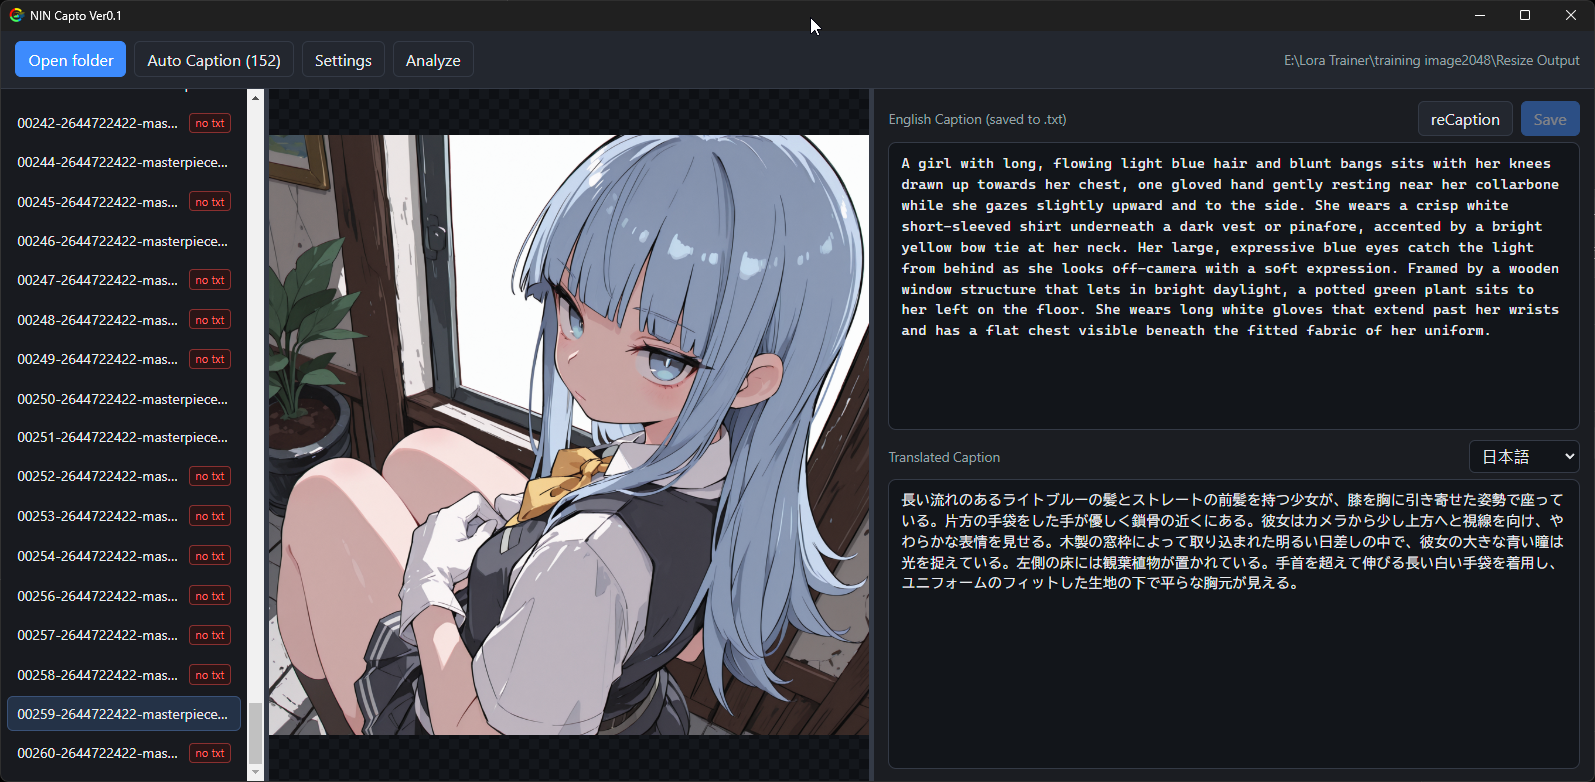
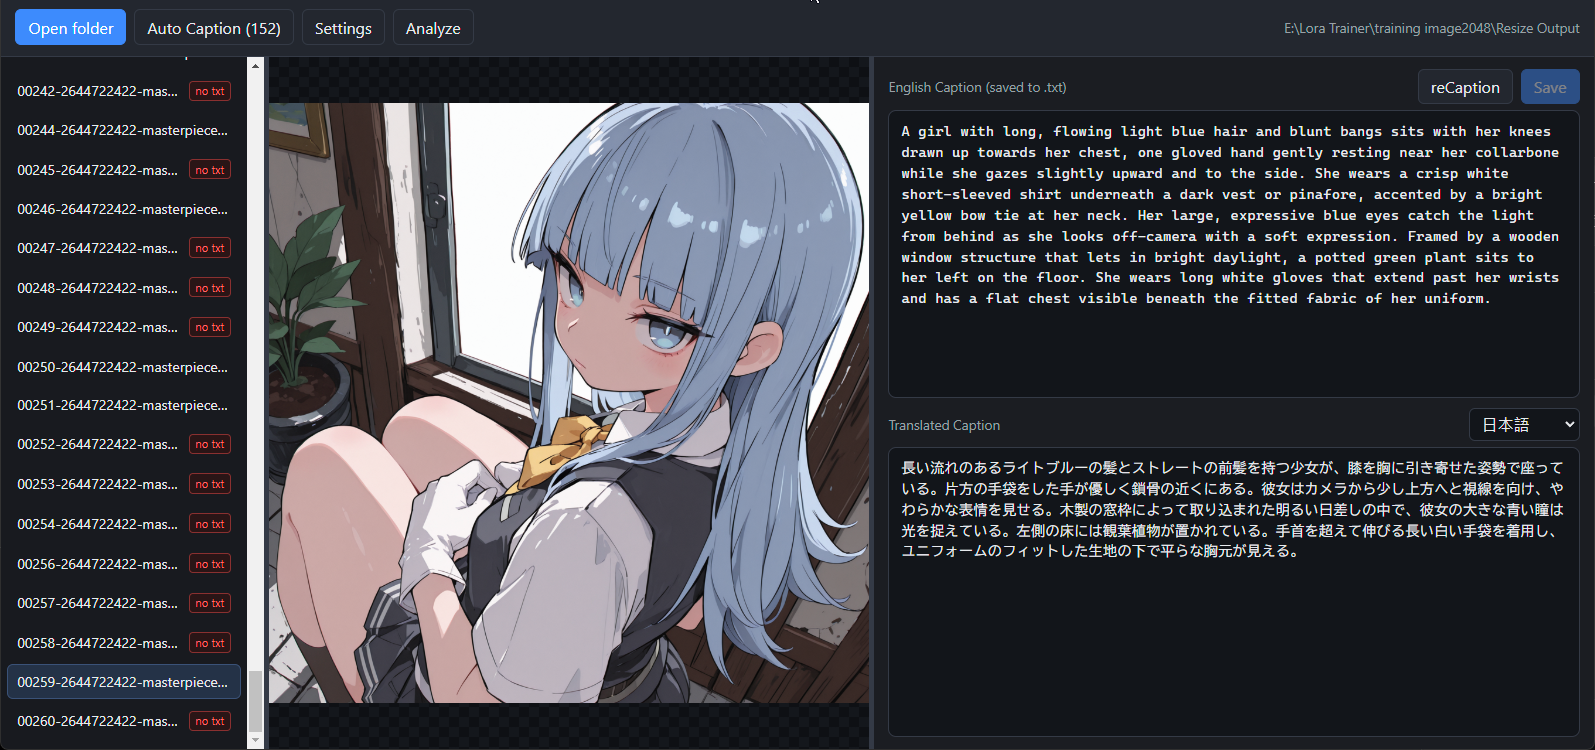
update readme and project name

Changed region(s): [[0.0, 0.0, 1.0, 0.9813], [0.3687, 0.736, 0.3994, 0.7667]]

diff --git a/out/renderer/assets/index-D_MhFrOL.js b/out/renderer/assets/index-D_MhFrOL.js
@@ -13765,44 +13765,10 @@ function ImageList({ images, selectedPath, dirtyPaths, onSelect }) {
   }) });
 }
 function ImagePreview({ imagePath, imageUrl }) {
-  const dbg = (message, data, hypothesisId) => {
-    fetch("http://127.0.0.1:7650/ingest/972901e0-30eb-4010-8d33-32496f961f4a", {
-      method: "POST",
-      headers: { "Content-Type": "application/json", "X-Debug-Session-Id": "6eddf5" },
-      body: JSON.stringify({
-        sessionId: "6eddf5",
-        runId: "post-fix-v2",
-        hypothesisId,
-        location: "ImagePreview.tsx",
-        message,
-        data,
-        timestamp: Date.now()
-      })
-    }).catch(() => {
-    });
-  };
-  dbg(
-    "preview-render",
-    {
-      hasPath: Boolean(imagePath),
-      hasUrl: Boolean(imageUrl),
-      imagePathTail: imagePath ? imagePath.slice(-80) : null,
-      imageUrl
-    },
-    "D"
-  );
   if (!imagePath || !imageUrl) {
     return /* @__PURE__ */ jsxRuntimeExports.jsx("div", { className: "image-preview empty", children: /* @__PURE__ */ jsxRuntimeExports.jsx("p", { children: "Select an image from the list to preview" }) });
   }
-  return /* @__PURE__ */ jsxRuntimeExports.jsx("div", { className: "image-preview", children: /* @__PURE__ */ jsxRuntimeExports.jsx(
-    "img",
-    {
-      src: imageUrl,
-      alt: "",
-      onLoad: () => dbg("img-load-ok", { imageUrl }, "C"),
-      onError: () => dbg("img-load-error", { imageUrl, imagePathTail: imagePath.slice(-80) }, "C")
-    }
-  ) });
+  return /* @__PURE__ */ jsxRuntimeExports.jsx("div", { className: "image-preview", children: /* @__PURE__ */ jsxRuntimeExports.jsx("img", { src: imageUrl, alt: "" }) });
 }
 const TRANSLATE_TIMEOUT_MS = 12e4;
 const CACHE_MAX = 80;
@@ -14918,7 +14884,6 @@ function App() {
       }
       if (isCaptionFocused()) return;
       if (e.ctrlKey || e.metaKey || e.altKey) return;
-      if (batchCaptioning || singleCaptioning) return;
       if (deleteOpen || unsavedOpen || settingsOpen) return;
       if (e.key === " " || e.key === "Spacebar" || e.key === "Enter") {
         e.preventDefault();
@@ -14951,8 +14916,6 @@ function App() {
     images,
     selectedPath,
     selectImage,
-    batchCaptioning,
-    singleCaptioning,
     deleteOpen,
     unsavedOpen,
     settingsOpen

diff --git a/out/renderer/index.html b/out/renderer/index.html
@@ -6,8 +6,8 @@
       http-equiv="Content-Security-Policy"
       content="default-src 'self'; script-src 'self'; style-src 'self' 'unsafe-inline'; img-src 'self' local-file: data: blob:; connect-src 'self' http://localhost:* http://127.0.0.1:*"
     />
-    <title>NIN Capto Ver0.1</title>
-    <script type="module" crossorigin src="./assets/index-DMQ2MMzc.js"></script>
+    <title>Captioer Ver0.1</title>
+    <script type="module" crossorigin src="./assets/index-D_MhFrOL.js"></script>
     <link rel="stylesheet" crossorigin href="./assets/index-DLVhqK-0.css">
   </head>
   <body>

diff --git a/src/renderer/index.html b/src/renderer/index.html
@@ -6,7 +6,7 @@
       http-equiv="Content-Security-Policy"
       content="default-src 'self'; script-src 'self'; style-src 'self' 'unsafe-inline'; img-src 'self' local-file: data: blob:; connect-src 'self' http://localhost:* http://127.0.0.1:*"
     />
-    <title>NIN Capto Ver0.1</title>
+    <title>Captioer Ver0.1</title>
   </head>
   <body>
     <div id="root"></div>

diff --git a/src/main/index.ts b/src/main/index.ts
@@ -238,7 +238,7 @@ async function createWindow(): Promise<void> {
     height: Math.max(600, saved.height),
     minWidth: 900,
     minHeight: 600,
-    title: 'NIN Capto Ver0.1',
+    title: 'Captioer Ver0.1',
     show: false,
     autoHideMenuBar: true,
     // Dev: build/icon.ico. Packaged Windows builds use the exe icon from electron-builder.

diff --git a/out/main/index.js b/out/main/index.js
@@ -176,7 +176,7 @@ async function createWindow() {
     height: Math.max(600, saved.height),
     minWidth: 900,
     minHeight: 600,
-    title: "NIN Capto Ver0.1",
+    title: "Captioer Ver0.1",
     show: false,
     autoHideMenuBar: true,
     // Dev: build/icon.ico. Packaged Windows builds use the exe icon from electron-builder.

diff --git a/README.md b/README.md
@@ -1,4 +1,4 @@
-# NIN Capto
+# Captioer
 
 **LoRA training image caption editor** — browse datasets, edit English captions, bidirectional translate with a local LLM (LM Studio / Ollama), batch Auto Caption, and analyze dataset health.
 
@@ -7,7 +7,7 @@
 ### Full window
 
 <p align="center">
-  <img src="docs/screenshots/01-main-window.png" alt="NIN Capto full window" width="900" />
+  <img src="docs/screenshots/01-main-window.png" alt="Captioer full window" width="900" />
 </p>
 
 ### Caption Analysis Page
@@ -56,7 +56,7 @@ npm run dev
 npm run dist
 ```
 
-Output: `release/NIN Capto-0.1.0-portable.exe`
+Output: `release/Captioer-0.1.0-portable.exe`
 
 ---
 
